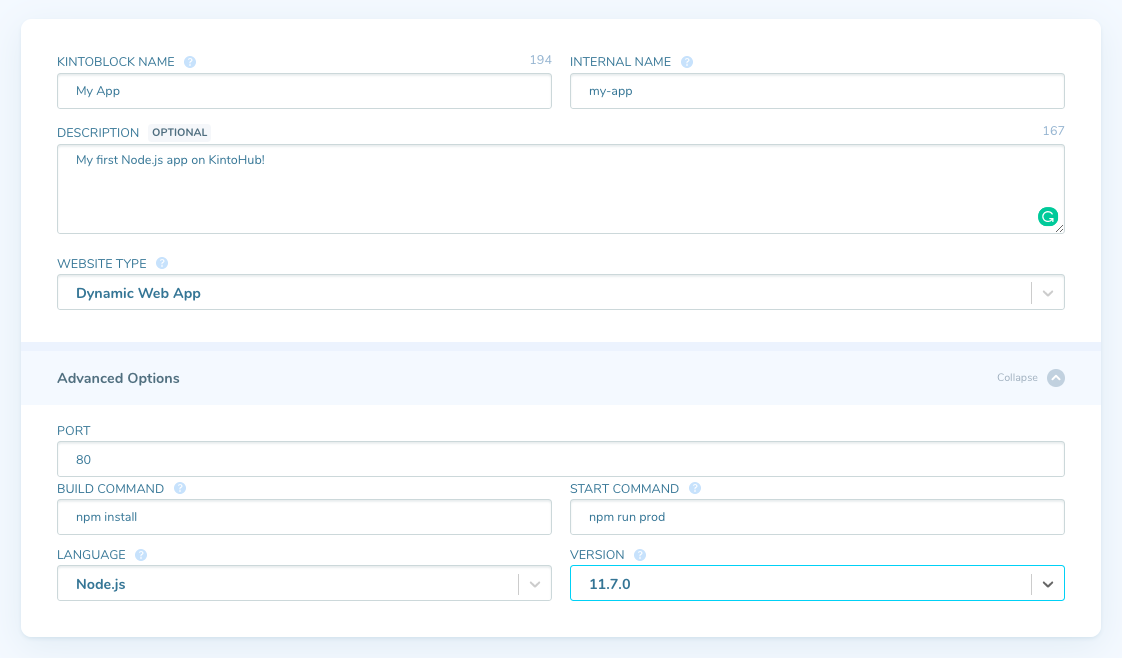
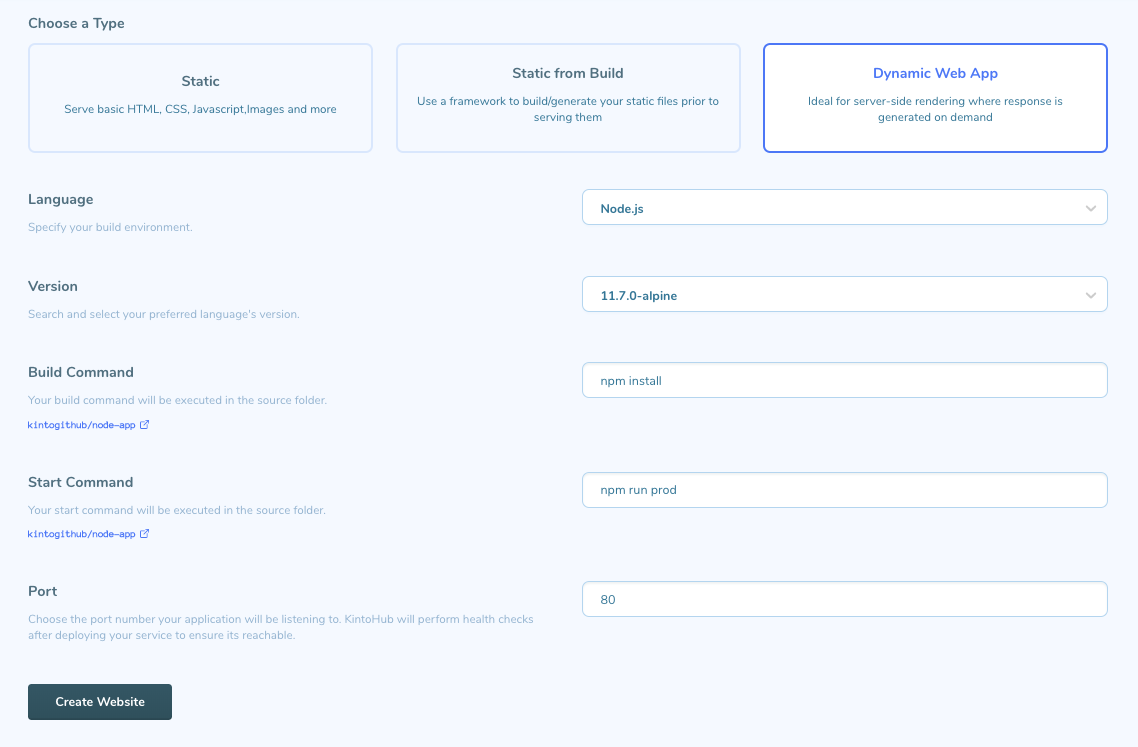
Modified existing content of Node.js

diff --git a/docs/introduction/try-deploying/nodejs-app.md b/docs/introduction/try-deploying/nodejs-app.md
@@ -89,83 +89,68 @@ To keep this example simple, we will deploy it as a website only. Of course in t
 
 ## Creating the KintoBlock on KintoHub
 
-> If you don't have a KintoHub account yet, [sign up for free](https://app.kintohub.com/sign-up) to proceed.
+> If you don't have a KintoHub account yet, [sign up for free](https://beta.kintohub.com/sign-up) to proceed.
 
- - Navigate to https://app.kintohub.com.
- - If it is the first time, you can __Skip Tutorial__.
- - In the sidebar, select __KintoBlocks__.
- - Press __Create New KintoBlock__.
+1. Navigate to https://beta.kintohub.com.
+2. Select **KintoBlocks** from the sidebar.
+3. Click on the **Create New KintoBlock** card. 
 
 ### Connect your GitHub account
 
-You'll get prompted with the below dialog to link to a Git repository source.
-
- - Press the __Link__ button of the __GitHub__ option.
+Once the **Connect Your Repository** page is displayed, click on the **Connect Github** button.
 
 ![Link Repo Source dialog, with GitHub, Bitbucket and GitLab options](/docs/assets/introduction/try-deploying/link-repo-sources.png)
 
-You'll be redirected to the GitHub website, where you have to __grant permissions for the KintoHub App to access your repositories__.
+The page will redirect to the GitHub website. In GitHub, ensure that **necessary permissions are granted to the KintoHub App** as suggested below:
 
- - Follow the prompts and __give access__ to:
-   - either all repositories, or
-   - only to the one you created in the beginning of this quick-start.
- - Press __Save__ on the GitHub website to be redirected back to KintoHub.
+1. Follow the prompts and __give access__ to:
+  - either all repositories, or
+  - only to the one you created in the beginning of this quick-start.
+2. Click the __Save__ button on the GitHub website to go back to KintoHub.
 
 ### Select a KintoBlock flavor
 
-The *__Link Repo Sources__* dialog will reappear, and you should see that GitHub is now connected successfully.
+In the **Choose KintoBlock Type** page, there is an option to select the type applicable to the project.
 
- - Press __I'm Done__ to proceed.
+1. Select the **Website** KintoBlock flavor.
 
-Next, you'll see the *__Create New KintoBlock__* page where you get the option to choose what type of KintoBlock to create.
-
- - Select the __Website__ KintoBlock flavor.
-
-![3 KintoBlock options: Microservice, Website, or Custom Service](/docs/assets/introduction/try-deploying/select-kintoblock.png)
+  ![4 KintoBlock options: Microservice, Website, Custom Service or Job](/docs/assets/introduction/try-deploying/select-kintoblock.png)
 
 ### Configure the KintoBlock
 
-The new KintoBlock page is where we define and configure the KintoBlock. This page looks different depending on the selected flavor.
+Once the **Choose Repository** page is displayed, specify the repository details as suggested below:
 
-First, refer to the *__Repository__* section, where __Repository Source__ is already `GitHub` and __Repository Type__ is `Existing Repositories`.
-
- - Type in the __Repository__ field the name you used previously. (e.g. `node-app`)
- - __Select the repository__ from the list that appears.
-   > _Tip:_ Other repositories with similar names may show up in the list, if you have opted to grant access to all repositories in your GitHub account. If that is undesirable, you can always [restrict access to only specific repositories](https://help.github.com/en/articles/reviewing-your-organizations-installed-integrations) under your GitHub account from the GitHub website.
-
-![Screen shot of the Repository section](/docs/assets/introduction/try-deploying/nodejs-app/repository-section.png)
+1. Enter the name of the repository where the static files are in the root of the repository.
+  ![Screen shot of the Repository section](/docs/assets/introduction/try-deploying/nodejs-app/repository-section.png)
+2. Click on the **Continue** button.
 
 Next, we're going to configure how the Website KintoBlock should _build and run the Node.js app_.
 
-Refer to the *__Basic Info__* section, and:
+3. Enter a unique Name, e.g. `My App`. 
+4. Enter an Internal Name, e.g. `my-app`.
+   > Note: The KintoBlock name must be _lower-case_, and _only include alphanumerical characters or hyphens_. The reason for that is that _the name is used as an identifier_ and may appear in the service logs, URLs and other places where it needs to be uniform.
+5. Choose the `Dynamic Web App` in **Choose a Type**.
+  ![Screen shot of the Create Website form](/docs/assets/introduction/try-deploying/nodejs-app/my-app.png)
 
- - Enter a __KintoBlock Name__, e.g. `nodeapp`.
-   > _Note:_ The KintoBlock name must be _lower-case_, and _only include alphanumerical characters or hyphens_. The reason for that is that _the name is used as an identifier_ and may appear in the service logs, URLs and other places where it needs to be uniform.
- - Enter a __Display Name__, e.g. `Node App`.
- - Add a __Description__, e.g. `My first Node.js app on KintoHub!`.
- - For the __Website Type__ select `Dynamic Web App`.
+Selecting _Dynamic Web App_ caused an extra *__Options__* section to appear.
 
-Selecting _Dynamic Web App_ caused an extra *__Advanced Options__* section to appear.
+6. Set `Node.js` as the __Language__.
+7. Select the appropriate __Version__, For e.g. `11.7.0-alpine`.
+8. Set the __Build Command__ as `npm install`, so that all required dependencies get installed.
+9. Update the __Run__ field to `npm run prod`, since we want to use the script that sets the port to 80.
+10. Leave the __Port__ field set to `80`, since that matches our production-ready configuration. 
+  ![Screen shot of the Basic Info section](/docs/assets/introduction/try-deploying/nodejs-app/basic-info-section.png)
 
- - Leave the __Port__ field set to `80`, since that matches our production-ready configuration.
- - Keep the __Build Command__ set as `npm install`, so that all required dependencies get installed.
- - Update the __Run__ field to `npm run prod`, since we want to use the script that sets the port to 80.
- - Set `Node.js` as the __Language__.
- - Select the appropriate __Version__, For e.g. `11.7.0`.
+Now that everything is configured, we are ready to proceed with the creation of the website.
 
-![Screen shot of the Basic Info section](/docs/assets/introduction/try-deploying/nodejs-app/basic-info-section.png)
-
-Now that everything is configured, we are ready to proceed:
-
- - Press the __Create New KintoBlock__ button in the bottom right corner.
+11. Click on **Create Website** button.
 
 ### Build the source code
 
 We now see that the KintoBlock has been created, and that _No build was built successfully yet._ Let's change that:
 
- - Press __Build Latest Commit__, to trigger a new build.
-
-![KintoBlock page with the message that: No build was built successfully yet](/docs/assets/introduction/try-deploying/nodejs-app/no-builds-yet.png)
+1. Press __Build Latest Commit__, to trigger a new build.
+  ![KintoBlock page with the message that: No build was built successfully yet](/docs/assets/introduction/try-deploying/nodejs-app/no-builds-yet.png)
 
 This triggers KintoHub to pull the source code from GitHub and build a cloud-native package out of it.
 
@@ -187,15 +172,15 @@ Now that you have a KintoBlock and it has been built, the KintoBlock is ready to
 
 From the KintoBlock page, in the bottom right corner:
 
- - Press __Add to Project__, this will pop up a dialog.
+1. Press __Add to Project__, this will pop up a dialog.
 
 > _Tip:_ If you have existing projects, this dialog allows you to select one of its existing environments.
 
 Because we do not have any projects yet:
 
- - Press the __New Project__ button.
- - Enter in the _Enter project name_ field a new project name. (e.g. `myapp`)
- - Press the __Create__ button.
+2. Press the __New Project__ button.
+3. Enter in the _Enter project name_ field a new project name. (e.g. `myapp`)
+4. Press the __Create__ button.
 
 ![Add to Project dialog](/docs/assets/introduction/try-deploying/nodejs-app/add-to-deployment.png)
 
@@ -203,8 +188,8 @@ Because we do not have any projects yet:
 
 The *__Create New Project__* page, has already been filled out with some of the information you've provided:
 
- - The __Project Name__ has been set.
- - A `default` __Environment Name__ has been preset, and can be adjusted if necessary.
+1. The __Project Name__ has been set.
+2. A `default` __Environment Name__ has been preset, and can be adjusted if necessary.
 
 Scroll down to the *__KintoBlocks__* section, where you can see that your _Node App_ KintoBlock has already been added. It has been preset to use the build from the `master` branch. It is also possible to [select other branches and tags](features/building/branches-and-tags.md).
 
@@ -214,7 +199,7 @@ If you have more KintoBlocks that should be part of this project, then you can a
 
 For this quick-start however, we are going to deploy only this single KintoBlock.
 
- - Press __Create New Project__ to start the project.
+3. Press __Create New Project__ to start the project.
 
 ## Project progress
 
@@ -234,7 +219,7 @@ During the project KintoHub will push your KintoBlock to a cloud server and setu
 
 To access the deployed Node.js sever, scroll down to the *__KintoBlocks__* section, and:
 
- - Press the __Open__ button on the Website KintoBlock.
+5. Press the __Open__ button on the Website KintoBlock.
 
 This will open a new tab in your browser pointing to the URL of the website that was deployed, for example:
 ```plaintext
